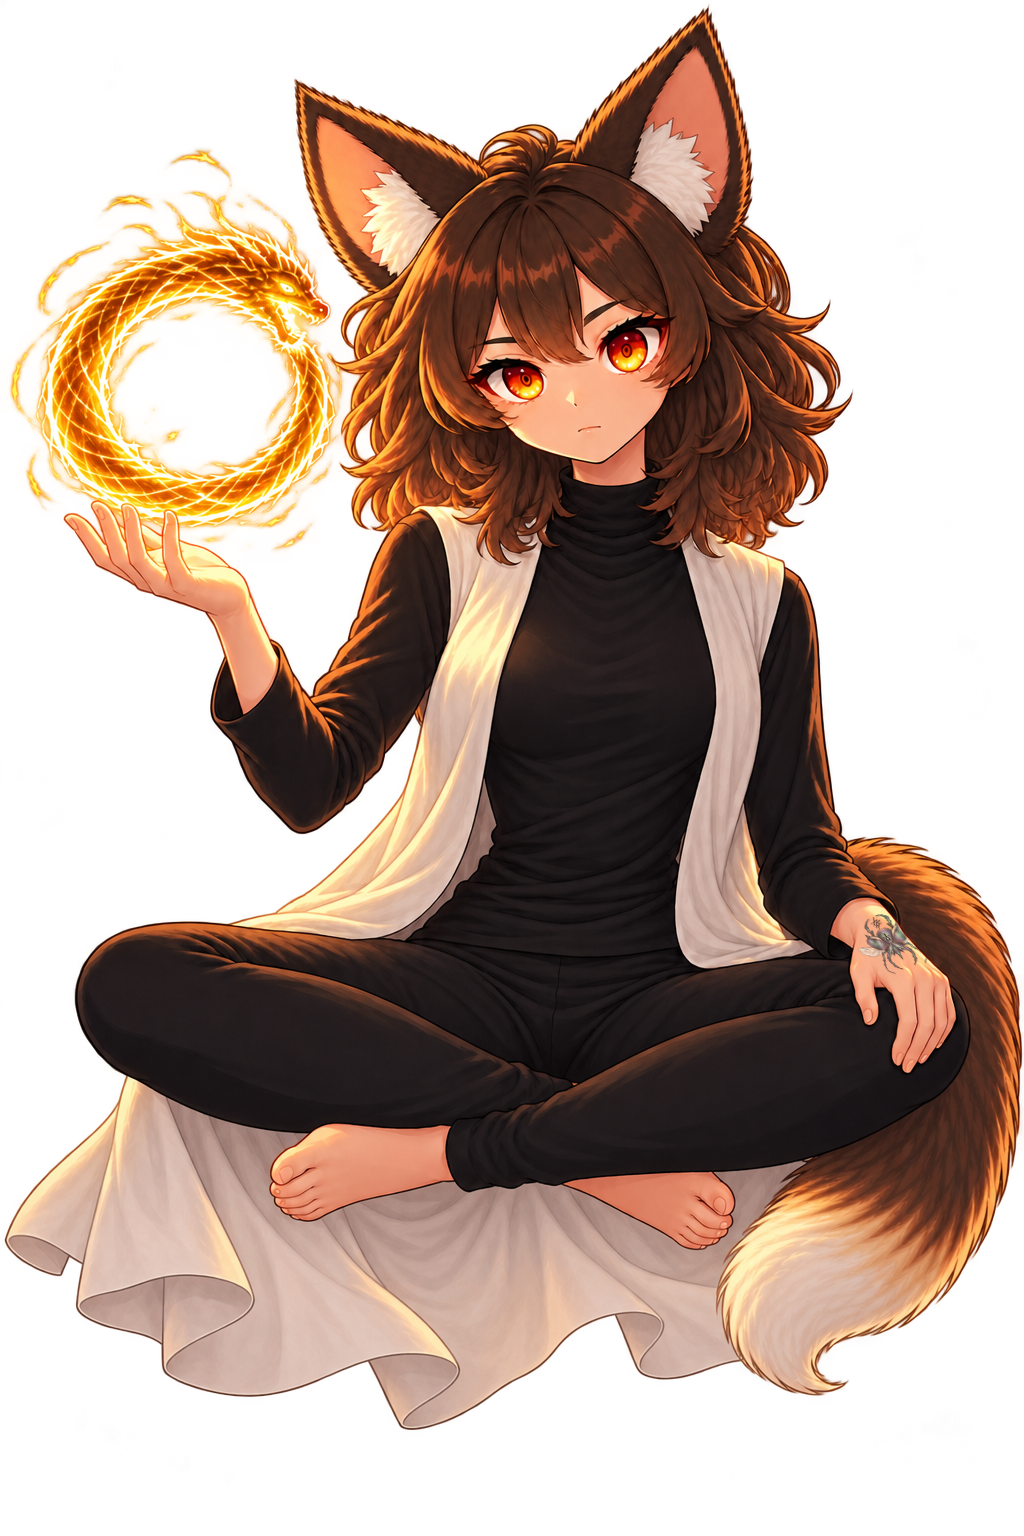
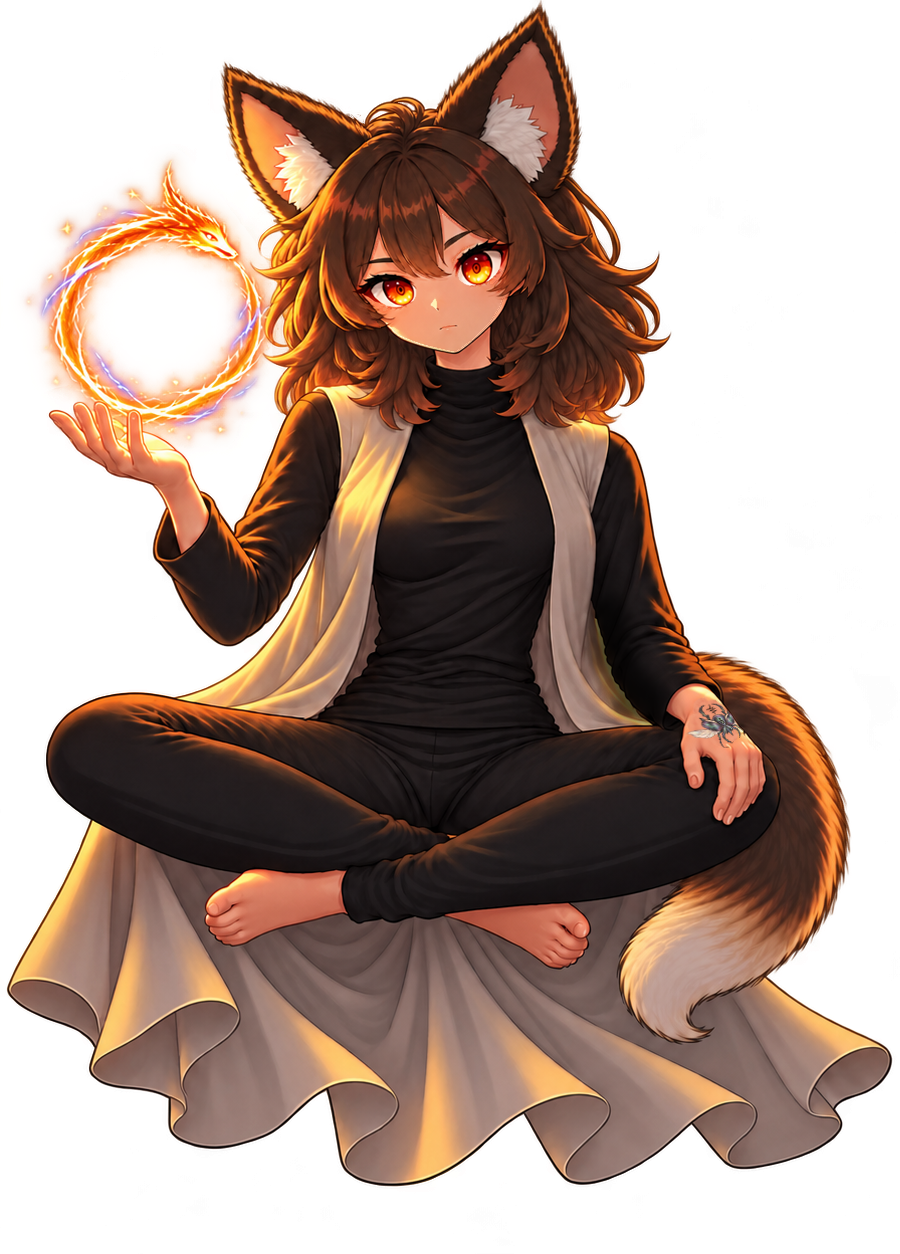
fix: aplicar arte final da Saṃvit na Home

diff --git a/src/app/pages/home/sanctuary-hero/sanctuary-hero.html b/src/app/pages/home/sanctuary-hero/sanctuary-hero.html
@@ -33,8 +33,8 @@
     <img
       class="samvit-character"
       src="/images/samvit/samvit-sanaka.png"
-      width="1024"
-      height="1536"
+      width="900"
+      height="1254"
       alt="Saṃvit"
     />
   </div>
